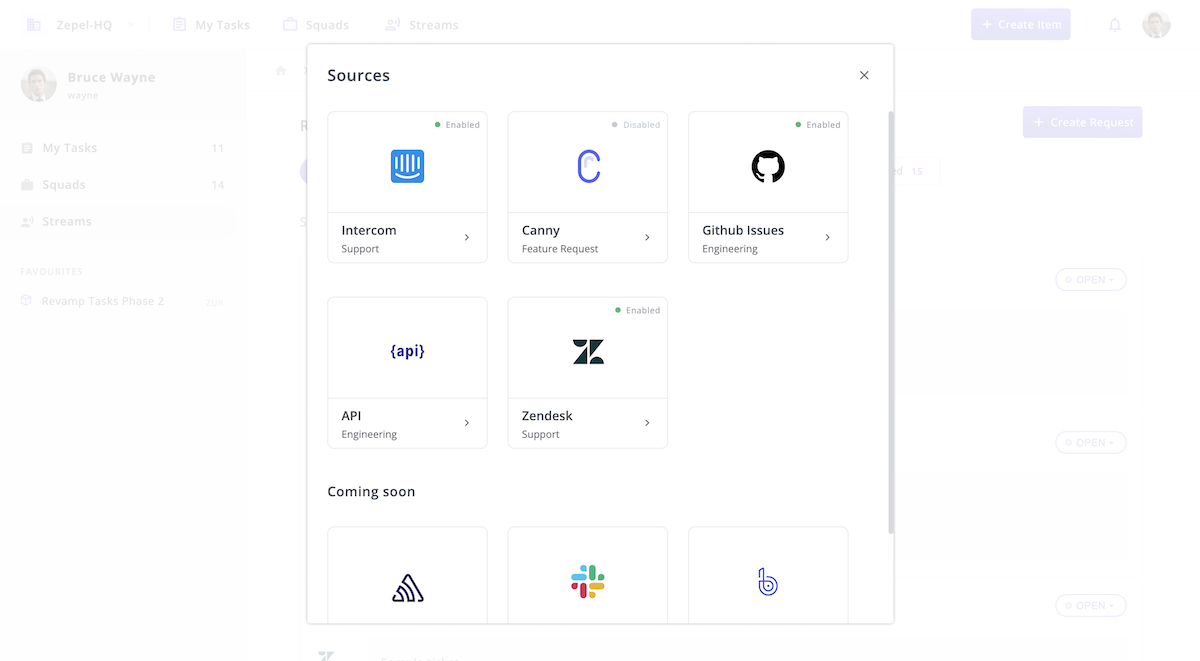
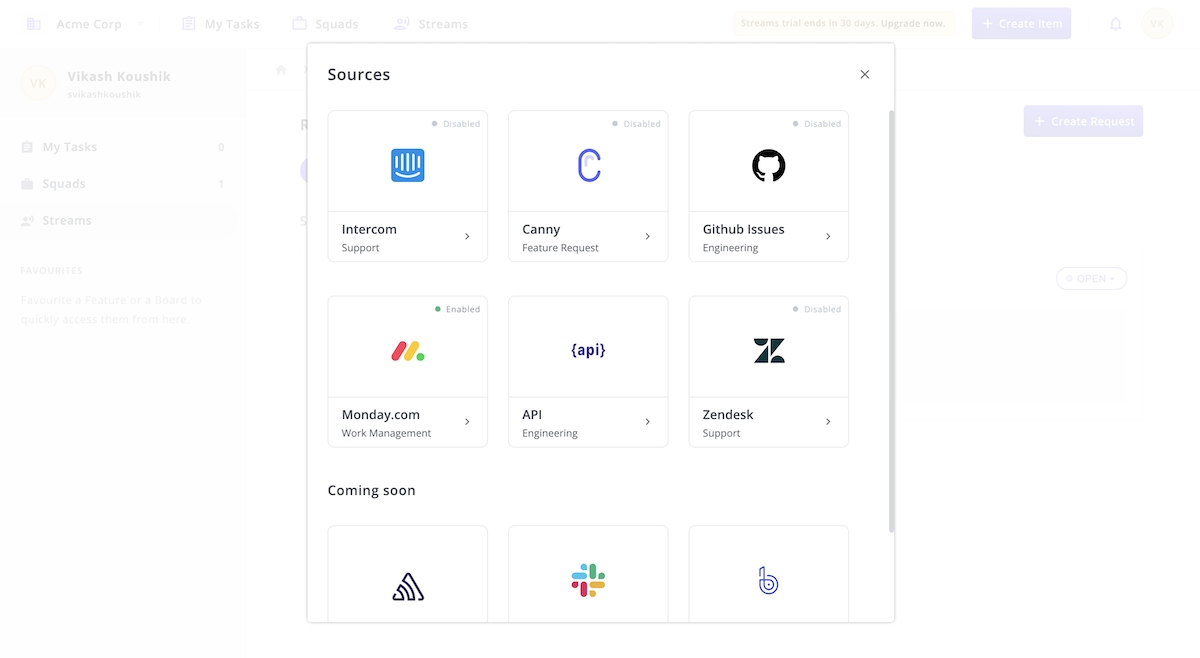
Article for monday dot com (#70)
* added article for monday.com

* new images replaced

new images replaced

diff --git a/guide/streams-catalog-monday.md b/guide/streams-catalog-monday.md
@@ -1,0 +1,124 @@
+---
+layout: default
+nav_order: 7
+has_children: false
+grand_parent: Streams
+parent: Sources Catalog
+title: Send Monday.com tasks to Zepel
+page_title: Monday.com
+description: Learn how to send Monday.com tasks to Zepel for effortless prioritization.
+permalink: streams/sources-catalog/monday/
+---
+
+# How to Connect Monday.com With Zepel
+{: .no_toc }
+
+Monday.com is a work management tool often used by marketing and non-technical teams to keep track of their work.
+
+You can connect Monday.com with with Streams in Zepel, to capture requests from other teams and prioritize those requests effortlessly.
+
+---
+
+**Before you begin:** 
+
+- Make sure you’re logged in to your Monday.com account and have Streams subscription enabled in your Zepel account.
+
+- Make sure you are the admin of the Monday.com account.
+
+## IN THIS PAGE
+{: .no_toc .text-delta }
+
+1. TOC
+{:toc}
+
+---
+
+## Connecting Monday.com with Zepel
+
+- In your Monday.com account, go to `Admin`
+
+![Monday Admin](/guide/assets/uploads/streams-monday-admin.png)
+
+- Navigate to `API` section in your admin settings.
+
+- Click `Generate` to create a new API token for your account.
+
+- Copy the API token you just generated.
+
+![Monday Token Generate](/guide/assets/uploads/streams-monday-token-generate.png)
+
+- In your Zepel account and navigate to the `Streams` tab. 
+
+- Click on the `Add Source` button. 
+
+![Streams Add Source Button](/guide/assets/uploads/streams-add-source-button.png)
+
+- A pop-up will appear with a list of sources available. 
+
+![Streams Sources Catalog](/guide/assets/uploads/streams-sources-catalog.png)
+
+- Click on `Monday.com` to connect it with Zepel.
+
+- Enter your Monday.com account's subdomain.
+
+![Monday.com subdomain](/guide/assets/uploads/streams-monday-subdomain.png)
+
+- Paste the API token you generated in your Monday.com account.
+
+![Zepel Monday.coom api token](/guide/assets/uploads/streams-monday-api-token.png)
+
+- Click `Enable Monday.com`.
+
+- Copy the secret Webhook URL that is generated for your account. 
+
+![Zepel Monday Webhook URL](/guide/assets/uploads/streams-monday-webhook.png)
+
+- Head back to your Monday.com workspace.
+
+- Open the board you'd like to connect with Zepel.
+
+- On the top-right corner of the board, click on the meatballs menu.
+
+- From the menu, click on `Integrations centre`.
+
+![Monday Integrations](/guide/assets/uploads/streams-monday-integrations-centre.png)
+
+- In the integrations centre, type `Webhooks` in the search box.
+
+- Select `Webhooks` from the search results.
+
+![Zepel Monday Webhook](/guide/assets/uploads/streams-monday-webhooks-search.png)
+
+- From the list of options available, select `When any column changes, send a webhook`.
+
+![Zepel Monday Webhook Column Change](/guide/assets/uploads/streams-monday-column-changes.png)
+
+- Paste the secret Webhook URL you copied from your Zepel account.
+
+![Zepel Monday Paste Webhook URL](/guide/assets/uploads/streams-monday-webhook-url-paste.png)
+
+- Click `Connect`.
+
+- Click `Add To Board`.
+
+Your Monday.com board is now connected to Zepel.
+
+---
+
+## Sending tasks from Monday.com to Streams
+
+You can send any task on Monday.com as a request in Zepel by adding this simple tag `Zepel` to any task.
+
+To tag a task in Monday.com:
+
+- Hover your mouse on a task in Monday.com.
+
+- Under the tags column, click the `+` icon.
+
+![Zepel Monday Add Tag](/guide/assets/uploads/streams-monday-add-tag.png)
+
+- In the text field, type `Zepel`. If you haven't already created, Monday.com will ask you to create a the tag.
+
+![Zepel Monday Create Tag](/guide/assets/uploads/streams-monday-create-tag.png)
+
+Once the task is tagged as `Zepel`, it will automatically be created as a request in Zepel Streams.

diff --git a/guide/streams-catalog.md b/guide/streams-catalog.md
@@ -28,6 +28,7 @@ Zepel supports the following sources:
 - [Canny]({{ site.url }}{{ site.baseurl }}{% link guide/streams-catalog-canny.md %})
 - [Sentry]({{ site.url }}{{ site.baseurl }}{% link guide/streams-catalog-sentry.md %})
 - [GitHub Issues]({{ site.url }}{{ site.baseurl }}{% link guide/streams-catalog-github-issues.md %})
+- [Monday.com]({{ site.url }}{{ site.baseurl }}{% link guide/streams-catalog-monday.md %})
 - [API](https://zepel.io/developers/api/v2/#streams)
 - [Internal Requests]({{ site.url }}{{ site.baseurl }}{% link guide/streams-catalog-internal-requests.md %})
 
